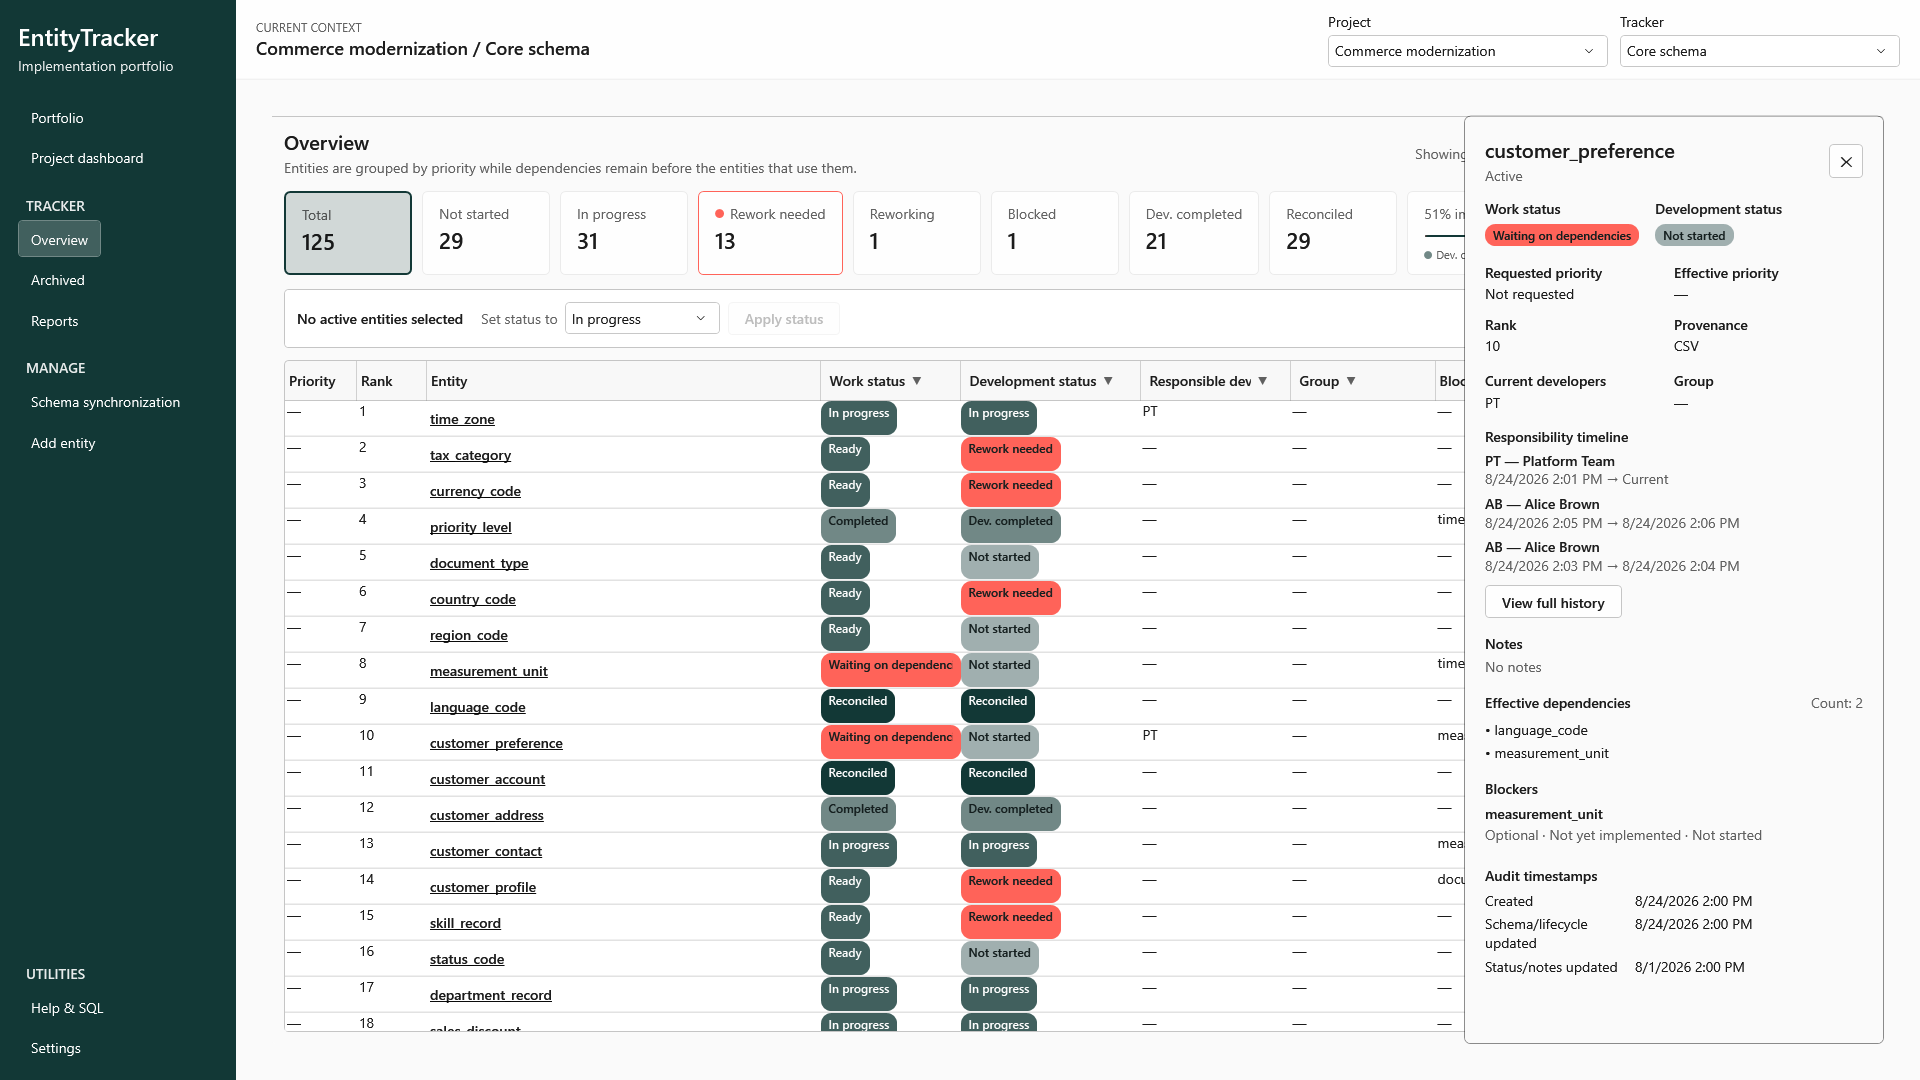
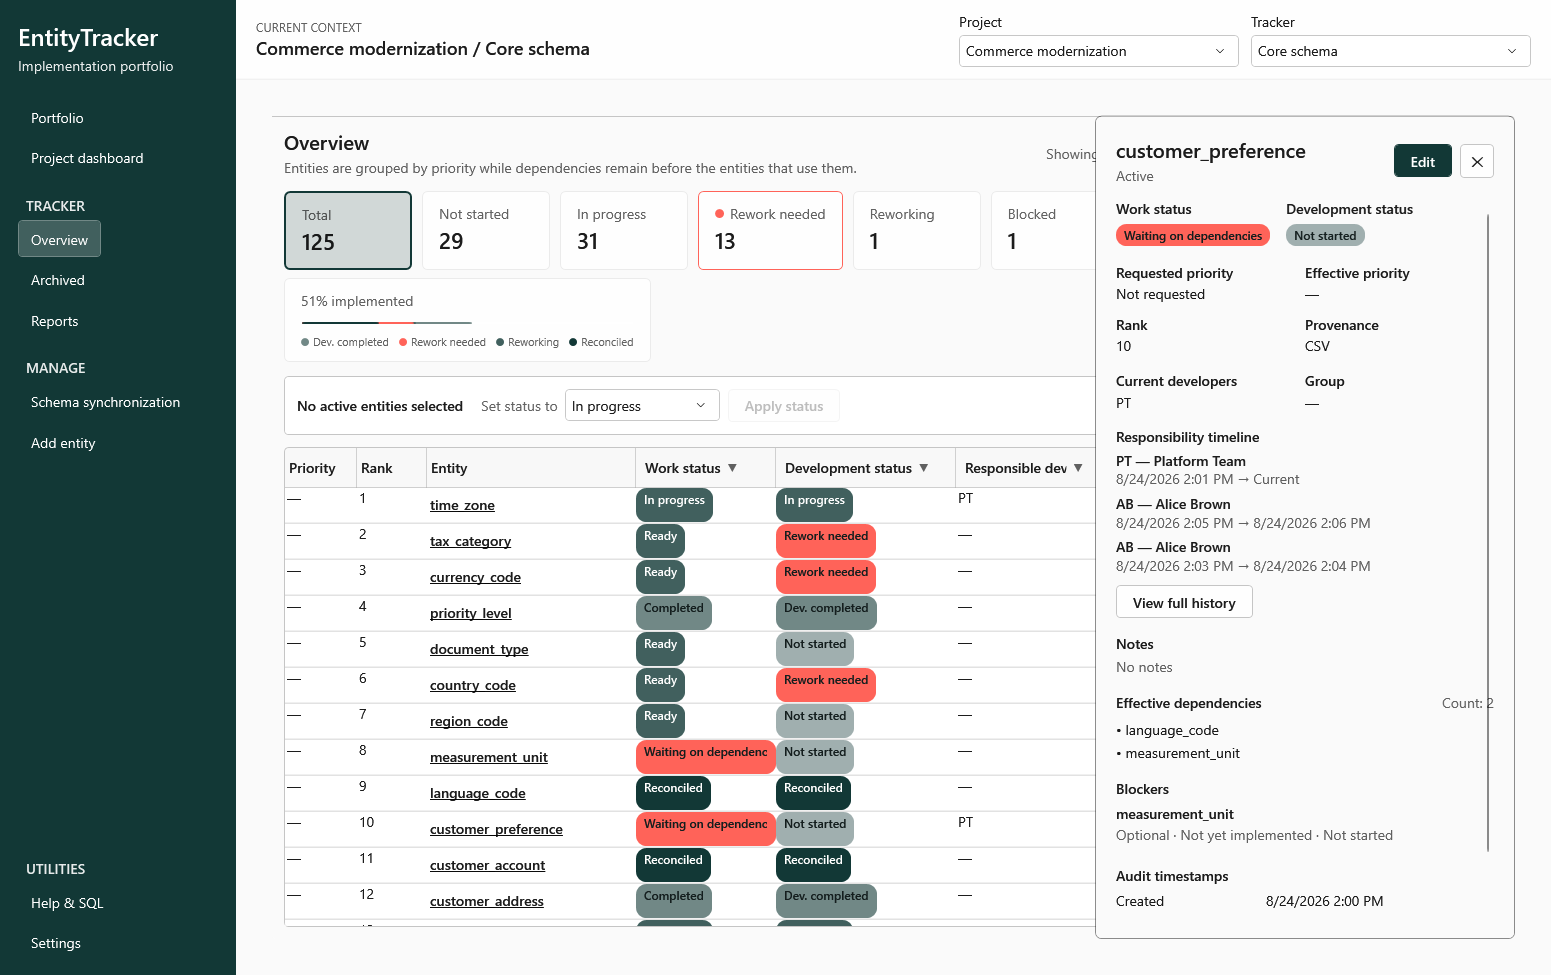
Milestone RESP-02.4

diff --git a/src/EntityTracker.Wpf/Views/TrackerWorkspaceView.xaml b/src/EntityTracker.Wpf/Views/TrackerWorkspaceView.xaml
@@ -2284,16 +2284,24 @@
 
                 <DockPanel Margin="0,0,0,14"
                            Visibility="{Binding IsSummaryOpen, Converter={StaticResource BooleanToVisibilityConverter}}">
-                    <Button x:Name="CloseEntityDetailsButton"
-                            DockPanel.Dock="Right"
-                            Width="34"
-                            Height="34"
-                            Padding="0"
-                            AutomationProperties.Name="Close entity details"
-                            Command="{Binding DataContext.CloseEntityDetailsCommand, RelativeSource={RelativeSource AncestorType=UserControl}}"
-                            Content="✕"
-                            Style="{StaticResource SecondaryButtonStyle}"
-                            ToolTip="Close details (Esc)" />
+                    <StackPanel DockPanel.Dock="Right" Orientation="Horizontal">
+                        <Button Margin="0,0,8,0"
+                                Content="Edit"
+                                AutomationProperties.Name="{Binding SourceName, StringFormat=Edit entity {0}}"
+                                Command="{Binding DataContext.EditOverviewEntityCommand, RelativeSource={RelativeSource AncestorType=UserControl}}"
+                                CommandParameter="{Binding OverviewRow}"
+                                Style="{StaticResource PrimaryButtonStyle}"
+                                Visibility="{Binding CanEdit, Converter={StaticResource BooleanToVisibilityConverter}}" />
+                        <Button x:Name="CloseEntityDetailsButton"
+                                Width="34"
+                                Height="34"
+                                Padding="0"
+                                AutomationProperties.Name="Close entity details"
+                                Command="{Binding DataContext.CloseEntityDetailsCommand, RelativeSource={RelativeSource AncestorType=UserControl}}"
+                                Content="✕"
+                                Style="{StaticResource SecondaryButtonStyle}"
+                                ToolTip="Close details (Esc)" />
+                    </StackPanel>
                     <StackPanel>
                         <TextBlock AutomationProperties.HeadingLevel="Level2"
                                    FontSize="20"

diff --git a/tests/EntityTracker.Wpf.Tests/ViewModels/MainWindowViewModelTests.cs b/tests/EntityTracker.Wpf.Tests/ViewModels/MainWindowViewModelTests.cs
@@ -418,6 +418,31 @@ public sealed class MainWindowViewModelTests
     }
 
     [Fact]
+    public async Task EntityDetails_EditActionOpensSelectedEntityInEditor()
+    {
+        TrackedEntity entity = Entity(1, "Customer");
+        MainWindowViewModel viewModel = CreateViewModel(
+            [entity],
+            [],
+            FailureResult(),
+            new StubFilePicker(),
+            out _);
+        await viewModel.InitializeAsync();
+        EntityOverviewRow row = Assert.Single(viewModel.OverviewItems);
+        viewModel.OpenEntityDetailsCommand.Execute(row);
+        EntityDetailsViewModel details = Assert.IsType<EntityDetailsViewModel>(
+            viewModel.SelectedEntityDetails);
+
+        Assert.True(details.CanEdit);
+        Assert.Same(row, details.OverviewRow);
+        viewModel.EditOverviewEntityCommand.Execute(details.OverviewRow);
+
+        await WaitUntilAsync(() => viewModel.Editor.IsOpen);
+        Assert.False(viewModel.IsEntityDetailsOpen);
+        Assert.Equal("Customer", viewModel.Editor.SelectedEntityName);
+    }
+
+    [Fact]
     public async Task EntityDetails_AreReadOnlyPreserveSelectionAndCloseOnProjectionChange()
     {
         TrackedEntity dependency = Entity(1, "Foundation");
@@ -493,6 +518,7 @@ public sealed class MainWindowViewModelTests
         EntityDetailsViewModel details = Assert.IsType<EntityDetailsViewModel>(
             viewModel.SelectedEntityDetails);
         Assert.True(details.IsArchived);
+        Assert.False(details.CanEdit);
         Assert.Equal("4", details.RequestedPriority);
         Assert.Equal("Not applicable while archived", details.EffectivePriority);
         Assert.Equal("Legacy target", Assert.Single(details.Dependencies).Name);

diff --git a/src/EntityTracker.Wpf/ViewModels/EntityDetailsViewModel.cs b/src/EntityTracker.Wpf/ViewModels/EntityDetailsViewModel.cs
@@ -19,6 +19,7 @@ public sealed class EntityDetailsViewModel : INotifyPropertyChanged
     {
         ArgumentNullException.ThrowIfNull(row);
 
+        OverviewRow = row;
         EntityId = row.EntityId;
         SourceName = row.SourceName;
         Lifecycle = row.LifecycleState == EntityLifecycleState.Archived ? "Archived" : "Active";
@@ -59,11 +60,15 @@ public sealed class EntityDetailsViewModel : INotifyPropertyChanged
 
     public EntityId EntityId { get; }
 
+    public EntityOverviewRow OverviewRow { get; }
+
     public string SourceName { get; }
 
     public string Lifecycle { get; }
 
     public bool IsArchived { get; }
+
+    public bool CanEdit => !IsArchived;
 
     public string Provenance { get; }
 

diff --git a/docs/GETTING_STARTED.md b/docs/GETTING_STARTED.md
@@ -82,8 +82,9 @@ installed app, so close one before opening the other.
 ### Assign developers
 
 Open an entity or create a new one, then search the Project developer picker and select one or
-more available developers. Create new developers from the Project Developers page. Entity details
-show all current assignments and up to three timeline entries; **View full history** opens the
+more available developers. Create new developers from the Project Developers page. Use **Edit** in
+an active entity's details pane to open its editor. Entity details show all current assignments
+and up to three timeline entries; **View full history** opens the
 complete timeline in the details pane, and **Back** returns to the summary. Current assignments
 appear newest first, followed by past assignments ordered by when they ended, newest first.
 Removing a developer ends their current period; assigning them again starts a new one. Retiring a

diff --git a/README.md b/README.md
@@ -216,8 +216,8 @@ deliberately restored from the archived view.
 
 Entity names and each row's **View details** action open a read-only side pane with priorities,
 rank, provenance, assignment, full notes, effective dependencies, blockers, and audit timestamps.
-Opening or closing this pane does not disturb bulk row selection; editing remains in the row action
-menu.
+Use **Edit** in the details header to open the entity editor. Opening or closing the pane does not
+disturb bulk row selection.
 
 The Add Entity and edit workflows use searchable Fluent suggestion controls. Unknown dependency
 names are added only through the explicit **Add as unresolved** action, while archive remains a
